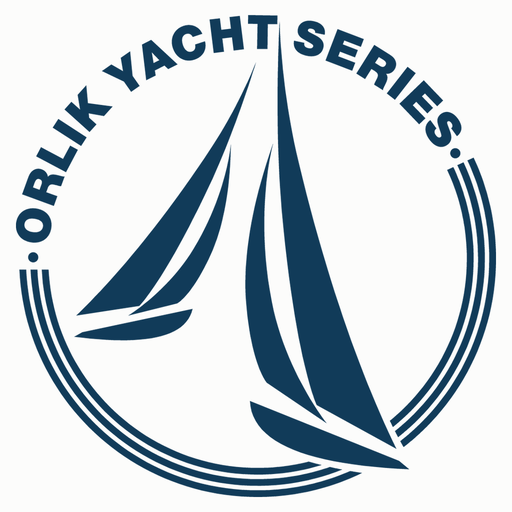
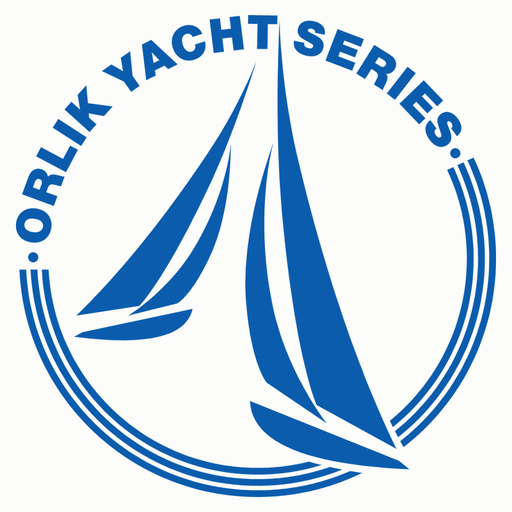
Značka v ikoně a splashi je světlejší, jako ve zbytku appky
Ikona byla jediné místo, kde se značka kreslila tmavě námořní
modří #113b59 — barvou změřenou z EPS rozhodčího. Web i appka ji
kreslí #0b5cad, takže ikona byla tmavší než obrazovka, kterou
otevírá, a v 60 px se tenké linky loga slily do skvrny (Filip,
8. 11. 2026: „logo apky je příliš tmavé, na tmavém prostředí
mobilu je méně vidět").

Archivní vektory v public/logo zůstávají v originální modři; barvu
mění jen to, co se kreslí na obrazovku: ikony, splash a favicon.

Tmavý vzhled šel z #7fa7c9 na #b8d4ea — kontrast proti pozadí
appky stoupl ze 7,1 na 11,7 a modrá zůstala modrá. #7fa7c9 je
barva znaku třídy Nad 7 m; značka si na ni jen půjčovala.

Hýbe to otiskem appky, takže vydané APK přestane dostávat
aktualizace po síti a musí ven nový build.

Changed region(s): [[0.0312, 0.0312, 0.9688, 0.9688]]

diff --git a/app/src/lib/znacka.ts b/app/src/lib/znacka.ts
@@ -12,7 +12,7 @@
  * kruh (Filip, 7. 11. 2026: *„to je nejak neuplne ne?"*).
  *
  * <b>Dvě barvy, stejné jako na webu.</b> `globals.css` má pro značku
- * `--logo-oys: #0b5cad` ve světlém a `#7fa7c9` v tmavém režimu
+ * `--logo-oys: #0b5cad` ve světlém a `#b8d4ea` v tmavém režimu
  * (řádky 327 a 415). Do 7. 11. 2026 tady stála jen ta tmavě modrá
  * s poznámkou, že se značka podle režimu nemění — a na tmavém pozadí
  * appky to byl tmavě modrý kruh na skoro černé, tedy to, kvůli čemu
@@ -22,7 +22,7 @@ export const ZNACKA = {
   viewBox: '0 0 538.58 540.96',
   barva: '#0b5cad',
   /** Tatáž značka na tmavém pozadí; `--logo-oys` v tmavém režimu webu. */
-  barvaTmava: '#7fa7c9',
+  barvaTmava: '#b8d4ea',
   nonzero:
     'M0.25 233.02C-0.16 235.98 -0.06 238.71 0.52 241.22C1.11 243.73 2.14 245.95 3.64 247.88C5.12 249.82 7.01 251.41 9.3 252.66C11.59 253.9 14.23 254.74 17.24 255.17C20.19 255.57 22.92 255.49 25.45 254.91C27.98 254.34 30.24 253.33 32.2 251.89C34.17 250.45 35.8 248.61 37.06 246.4C38.32 244.2 39.17 241.65 39.58 238.78C39.97 235.96 39.85 233.33 39.24 230.91C38.63 228.47 37.57 226.3 36.07 224.4C34.57 222.5 32.68 220.93 30.4 219.69C28.12 218.45 25.52 217.63 22.57 217.21C19.64 216.8 16.9 216.88 14.37 217.44C11.84 217.99 9.58 218.97 7.61 220.37C5.63 221.77 4.02 223.54 2.74 225.67C1.48 227.81 0.65 230.26 0.25 233.02ZM9.6 234.51C9.82 233.02 10.39 231.81 11.33 230.84C12.26 229.88 13.51 229.21 15.05 228.84C16.59 228.47 18.39 228.42 20.44 228.7C23.99 229.2 26.58 230.2 28.23 231.7C29.87 233.19 30.52 235.12 30.2 237.52C29.96 239.1 29.36 240.39 28.38 241.39C27.4 242.39 26.09 243.09 24.46 243.47C22.84 243.84 20.93 243.88 18.75 243.58C16.61 243.28 14.82 242.71 13.38 241.9C11.94 241.09 10.9 240.06 10.25 238.81C9.6 237.55 9.39 236.12 9.6 234.51ZM6.9 201.27L42.44 214.21L46.38 203.39L33.85 198.83L35.52 194.25C35.88 193.26 36.3 192.46 36.8 191.85C37.28 191.23 37.84 190.78 38.46 190.49C38.84 190.33 39.22 190.21 39.59 190.14C39.97 190.07 40.39 190.05 40.85 190.07C41.33 190.1 41.88 190.18 42.52 190.32C43.18 190.46 43.96 190.65 44.89 190.9L47.26 191.52C47.69 191.64 48.01 191.71 48.21 191.77C48.43 191.81 48.58 191.84 48.68 191.86C48.78 191.87 48.88 191.89 48.99 191.91C49.35 191.95 49.63 191.98 49.84 192.01C50.06 192.03 50.28 192.04 50.51 192.04L54.45 181.22L54.05 181.32C53.81 181.38 53.39 181.37 52.78 181.27C52.16 181.17 51.33 180.99 50.28 180.73C48.15 180.12 46.32 179.67 44.79 179.39C43.26 179.11 41.95 179.01 40.86 179.08C39.77 179.16 38.81 179.4 37.99 179.84C37.17 180.27 36.4 180.89 35.69 181.7C35.59 180.44 35.25 179.27 34.67 178.18C34.09 177.09 33.32 176.13 32.35 175.29C31.37 174.46 30.24 173.81 28.95 173.33C27.68 172.87 26.43 172.63 25.18 172.62C23.94 172.61 22.73 172.81 21.58 173.22C20.42 173.64 19.34 174.26 18.36 175.09C17.69 175.64 17.09 176.27 16.55 176.99C16 177.71 15.48 178.57 14.99 179.56C14.49 180.56 14 181.76 13.49 183.15L6.9 201.27ZM19.09 193.46L21.03 188.13C21.65 186.39 22.41 185.22 23.3 184.59C24.19 183.96 25.24 183.86 26.47 184.31C27.69 184.76 28.47 185.47 28.81 186.44C29.15 187.41 29.05 188.66 28.49 190.18L26.34 196.1L19.09 193.46ZM60.76 146.66L52.83 161.58L28.09 148.43L22.69 158.59L56.08 176.35L69.42 151.26L60.76 146.66ZM47.55 116.71L41.28 126.36L73.01 146.97L79.28 137.31L47.55 116.71ZM78.81 78.95L69.25 89.57L71.93 106.25L62.15 97.45L54.45 106.01L82.56 131.31L90.26 122.76L81.96 115.28L81.54 110.41L98.69 113.4L108.36 102.66L80.62 98.97L78.81 78.95ZM127.97 40.83L117.56 48.11L120.09 63.09L107.02 55.5L96.47 62.88L121.21 74.77L129.18 86.15L138.61 79.55L130.77 68.36L127.97 40.83ZM151.62 28L141.41 33.2L146.16 73.23L156.61 67.9L155.79 62.28L166.65 56.74L170.71 60.72L181.22 55.37L151.62 28ZM160.69 50.68L154.38 53.9L152.44 42.09L160.69 50.68ZM201.06 33.12C201.43 35.2 201.31 36.92 200.66 38.27C200.02 39.61 198.89 40.56 197.27 41.09C195.84 41.54 194.49 41.53 193.19 41.06C191.91 40.59 190.74 39.71 189.71 38.42C188.67 37.11 187.82 35.44 187.15 33.4C186.49 31.36 186.2 29.52 186.28 27.86C186.36 26.21 186.78 24.82 187.55 23.69C188.32 22.57 189.42 21.77 190.84 21.29C192.43 20.77 193.86 20.81 195.13 21.38C196.39 21.95 197.45 23.04 198.31 24.65L209.04 21.16C208.24 19.18 207.12 17.46 205.68 16.03C204.23 14.59 202.58 13.45 200.69 12.65C198.81 11.84 196.81 11.38 194.66 11.3C192.52 11.2 190.35 11.51 188.13 12.22C185.46 13.09 183.17 14.35 181.25 16C179.34 17.64 177.84 19.56 176.76 21.77C175.68 23.98 175.06 26.38 174.92 28.96C174.77 31.54 175.13 34.21 176.02 36.96C176.94 39.76 178.21 42.17 179.83 44.21C181.46 46.23 183.34 47.84 185.49 49.01C187.63 50.17 189.95 50.86 192.45 51.07C194.95 51.27 197.53 50.95 200.2 50.09C202.58 49.31 204.64 48.24 206.39 46.9C208.12 45.55 209.52 43.97 210.56 42.18C211.6 40.38 212.25 38.42 212.51 36.28C212.77 34.15 212.61 31.91 212.01 29.56L201.06 33.12ZM251.08 0.93L239.66 2.34L241.25 15.34L230.28 16.69L228.68 3.69L217.25 5.09L221.87 42.63L233.29 41.23L231.47 26.42L242.45 25.08L244.27 39.88L255.69 38.48L251.08 0.93ZM293.32 0.57L260.61 0L260.44 9.81L271.04 9.99L270.55 38L282.06 38.2L282.55 10.2L293.15 10.38L293.32 0.57ZM346.28 22.18C346.79 19.63 346.65 17.34 345.85 15.3C345.06 13.25 343.65 11.52 341.64 10.11C339.62 8.69 337.05 7.65 333.92 6.97C331.66 6.5 329.56 6.35 327.6 6.51C325.64 6.67 323.89 7.13 322.35 7.88C320.8 8.62 319.53 9.63 318.5 10.89C317.49 12.15 316.8 13.64 316.42 15.37C316.11 16.85 316.07 18.25 316.29 19.58C316.51 20.9 317 22.07 317.74 23.07C318.08 23.56 318.47 24.03 318.94 24.48C319.4 24.92 319.97 25.39 320.66 25.88C321.35 26.36 322.2 26.9 323.21 27.5C324.23 28.1 325.46 28.8 326.9 29.6C328.41 30.42 329.63 31.11 330.55 31.65C331.46 32.2 332.15 32.67 332.6 33.05C333.06 33.43 333.34 33.79 333.45 34.11C333.57 34.44 333.58 34.8 333.49 35.17C333.27 36.15 332.7 36.82 331.78 37.2C330.86 37.56 329.68 37.6 328.22 37.3C326.3 36.9 324.95 36.22 324.18 35.24C323.42 34.28 323.16 32.94 323.43 31.24L312.05 28.82C311.52 31.62 311.71 34.15 312.63 36.41C313.56 38.69 315.16 40.61 317.43 42.21C319.7 43.79 322.57 44.96 326.03 45.71C328.51 46.22 330.8 46.41 332.9 46.24C335.02 46.08 336.89 45.6 338.53 44.81C340.17 44.01 341.53 42.91 342.6 41.53C343.68 40.13 344.43 38.48 344.85 36.55C345.23 34.74 345.19 33.04 344.73 31.46C344.27 29.87 343.39 28.41 342.1 27.09C341.59 26.56 341 26.05 340.34 25.55C339.68 25.05 338.88 24.52 337.96 23.98C337.04 23.43 335.93 22.81 334.64 22.14C333.54 21.59 332.65 21.13 331.93 20.77C331.22 20.4 330.65 20.11 330.23 19.88C329.8 19.66 329.47 19.48 329.23 19.35C329 19.21 328.81 19.1 328.66 19C328.52 18.91 328.38 18.8 328.24 18.69C327.94 18.46 327.73 18.18 327.6 17.87C327.47 17.56 327.45 17.22 327.52 16.86C327.69 16.13 328.14 15.65 328.87 15.39C329.61 15.14 330.58 15.13 331.78 15.39C333.21 15.7 334.26 16.26 334.94 17.05C335.63 17.84 335.85 18.8 335.63 19.92L346.28 22.18ZM390.21 27.07L360.93 15.83L347.37 51.15L377.13 62.57L380.56 53.62L361.56 46.32L363.55 41.14L380.33 47.58L383.48 39.37L366.7 32.93L368.38 28.54L386.91 35.65L390.21 27.07ZM401.99 33.65L381.95 65.73L391.71 71.83L398.77 60.53L402.91 63.11C403.8 63.67 404.49 64.25 404.99 64.86C405.49 65.47 405.82 66.1 405.97 66.77C406.05 67.18 406.08 67.57 406.08 67.95C406.06 68.33 406 68.75 405.88 69.2C405.75 69.65 405.56 70.18 405.29 70.78C405.02 71.39 404.67 72.12 404.23 72.97L403.13 75.16C402.93 75.56 402.79 75.86 402.69 76.04C402.6 76.24 402.55 76.39 402.51 76.48C402.47 76.57 402.43 76.67 402.4 76.77C402.28 77.12 402.19 77.39 402.12 77.59C402.06 77.8 402 78.01 401.95 78.23L411.71 84.33L411.7 83.92C411.69 83.68 411.78 83.27 412.01 82.69C412.24 82.11 412.58 81.33 413.06 80.36C414.1 78.4 414.92 76.71 415.51 75.27C416.1 73.83 416.48 72.57 416.63 71.49C416.78 70.4 416.74 69.42 416.49 68.52C416.23 67.63 415.79 66.75 415.15 65.88C416.4 66.05 417.61 65.96 418.8 65.62C419.98 65.28 421.09 64.73 422.11 63.95C423.12 63.17 424 62.19 424.73 61.04C425.45 59.89 425.94 58.72 426.21 57.49C426.48 56.28 426.54 55.06 426.37 53.85C426.21 52.63 425.82 51.44 425.22 50.31C424.81 49.54 424.32 48.82 423.73 48.14C423.14 47.46 422.41 46.77 421.54 46.08C420.67 45.39 419.6 44.66 418.34 43.87L401.99 33.65ZM407.09 47.21L411.9 50.21C413.47 51.18 414.46 52.17 414.9 53.16C415.33 54.17 415.21 55.22 414.51 56.32C413.81 57.43 412.96 58.04 411.94 58.17C410.92 58.3 409.72 57.94 408.34 57.08L403.01 53.75L407.09 47.21ZM448.48 65.33L439.41 58.25L416.12 88.05L425.2 95.14L448.48 65.33ZM479.26 95.92L457.47 73.36L430.26 99.64L452.4 122.56L459.3 115.91L445.15 101.26L449.15 97.4L461.64 110.33L467.96 104.23L455.47 91.3L458.86 88.03L472.65 102.3L479.26 95.92ZM494.74 135.93C496.83 134.38 498.26 132.59 499.03 130.53C499.81 128.48 499.92 126.25 499.37 123.86C498.82 121.45 497.61 118.96 495.73 116.36C494.37 114.5 492.91 112.98 491.35 111.79C489.78 110.6 488.18 109.77 486.53 109.29C484.88 108.81 483.26 108.7 481.66 108.95C480.06 109.22 478.55 109.86 477.11 110.89C475.89 111.78 474.92 112.8 474.2 113.93C473.48 115.06 473.06 116.25 472.94 117.5C472.87 118.09 472.84 118.7 472.89 119.35C472.93 119.98 473.04 120.72 473.23 121.54C473.42 122.36 473.69 123.33 474.04 124.45C474.39 125.58 474.84 126.92 475.38 128.48C475.95 130.1 476.4 131.42 476.72 132.44C477.03 133.47 477.23 134.27 477.3 134.86C477.39 135.45 477.36 135.9 477.23 136.22C477.1 136.53 476.86 136.81 476.54 137.03C475.73 137.61 474.86 137.73 473.92 137.39C472.99 137.05 472.09 136.28 471.21 135.09C470.04 133.5 469.5 132.09 469.58 130.85C469.66 129.63 470.36 128.46 471.7 127.37L464.87 117.97C462.6 119.68 461.04 121.69 460.22 124C459.38 126.31 459.29 128.81 459.91 131.51C460.53 134.2 461.88 136.99 463.96 139.87C465.45 141.91 467.03 143.58 468.71 144.86C470.38 146.16 472.09 147.05 473.85 147.56C475.6 148.07 477.34 148.16 479.07 147.85C480.8 147.54 482.47 146.8 484.07 145.65C485.56 144.57 486.67 143.27 487.39 141.79C488.1 140.3 488.43 138.63 488.35 136.79C488.33 136.05 488.24 135.28 488.07 134.46C487.92 133.65 487.68 132.72 487.36 131.71C487.04 130.67 486.63 129.48 486.12 128.11C485.67 126.97 485.32 126.03 485.03 125.28C484.74 124.53 484.52 123.93 484.35 123.48C484.18 123.03 484.06 122.68 483.97 122.42C483.89 122.16 483.82 121.95 483.78 121.78C483.73 121.62 483.7 121.44 483.67 121.27C483.61 120.89 483.63 120.55 483.74 120.23C483.86 119.91 484.07 119.65 484.37 119.43C484.97 119 485.63 118.94 486.35 119.24C487.07 119.55 487.79 120.19 488.51 121.18C489.37 122.37 489.78 123.49 489.76 124.53C489.73 125.58 489.26 126.44 488.34 127.13L494.74 135.93ZM502.05 165.36C517.43 198.17 526.02 234.8 526.02 273.44C526.02 343.84 497.48 407.59 451.35 453.72C444.22 460.85 436.67 467.56 428.75 473.8C427.54 471.54 426.36 469.27 425.2 466.99C432.49 461.18 439.44 454.98 446.02 448.4C490.79 403.62 518.49 341.76 518.49 273.44C518.49 235.94 510.14 200.39 495.22 168.55L502.05 165.36ZM365.99 510.14C336.65 521.92 304.61 528.4 271.06 528.4C200.65 528.4 136.91 499.86 90.77 453.72C47.34 410.29 19.5 351.25 16.39 285.74L23.94 285.74C27.04 349.17 54.03 406.32 96.1 448.4C140.88 493.17 202.73 520.87 271.06 520.87C299.47 520.87 326.76 516.08 352.17 507.26C356.66 508.27 361.27 509.23 365.99 510.14ZM36.51 285.74C39.6 345.7 65.18 399.72 104.98 439.52C147.48 482.02 206.2 508.31 271.06 508.31C290.88 508.31 310.12 505.85 328.51 501.22C333.12 502.56 337.87 503.84 342.78 505.06C320.11 512.07 296.03 515.84 271.06 515.84C204.12 515.84 143.52 488.71 99.65 444.84C58.49 403.68 32.07 347.78 28.96 285.74L36.51 285.74ZM419.54 455.42C425.67 450.41 431.55 445.11 437.14 439.52C479.64 397.01 505.93 338.3 505.93 273.44C505.93 237.84 498.01 204.1 483.84 173.87L490.66 170.68C505.29 201.88 513.46 236.7 513.46 273.44C513.46 340.38 486.33 400.98 442.46 444.84C436.27 451.04 429.74 456.9 422.9 462.4C421.76 460.08 420.64 457.76 419.54 455.42ZM11.36 285.74C14.48 352.64 42.88 412.93 87.22 457.28C134.27 504.33 199.27 533.43 271.06 533.43C308.02 533.43 343.17 525.71 375.01 511.81C379.33 512.57 383.76 513.3 388.25 513.99C352.86 531.26 313.09 540.96 271.06 540.96C197.19 540.96 130.3 511.02 81.89 462.61C36.18 416.9 6.94 354.72 3.82 285.74L11.36 285.74ZM431.17 478.29C439.5 471.77 447.43 464.75 454.9 457.28C501.95 410.23 531.05 345.23 531.05 273.44C531.05 234.04 522.28 196.69 506.6 163.23L513.43 160.04C529.56 194.47 538.58 232.9 538.58 273.44C538.58 347.31 508.64 414.19 460.23 462.61C452.27 470.57 443.8 478.02 434.9 484.93C433.63 482.72 432.39 480.51 431.17 478.29Z',
   evenodd:

diff --git a/web/app/globals.css b/web/app/globals.css
@@ -423,7 +423,7 @@ body:has(.uvod) .pozadi-znak { display: none; }
   :root:not([data-rezim="svetly"]) .pozadi-znak { opacity: 0.09; }
   :root:not([data-rezim="svetly"]) .logo { --logo-hlavni: #7fa7c9; --logo-druha: #e25a6d; --logo-seda: #c4ced8; --logo-napis: #edeae5; }
   :root:not([data-rezim="svetly"]) .logo-vodoznak-na-plachte { fill: #14171a; fill-opacity: 0.35; }
-  :root:not([data-rezim="svetly"]) .logo-oys { --logo-oys: #7fa7c9; }
+  :root:not([data-rezim="svetly"]) .logo-oys { --logo-oys: #b8d4ea; }
   /* Tmavý vzhled (Filip, 22. 9. 2026, varianta 5c): logo ledové, nápis
      středně šedý, aby logo stálo samo. Vodoznak na pozadí zůstává tlumený. */
   :root:not([data-rezim="svetly"]) header.hlavicka { --barva-znacky: #d6e6f5; --napis-znacky: #7d848c; }
@@ -431,7 +431,7 @@ body:has(.uvod) .pozadi-znak { display: none; }
 :root[data-rezim="tmavy"] .pozadi-znak { opacity: 0.09; }
 :root[data-rezim="tmavy"] .logo { --logo-hlavni: #7fa7c9; --logo-druha: #e25a6d; --logo-seda: #c4ced8; --logo-napis: #edeae5; }
 :root[data-rezim="tmavy"] .logo-vodoznak-na-plachte { fill: #14171a; fill-opacity: 0.35; }
-:root[data-rezim="tmavy"] .logo-oys { --logo-oys: #7fa7c9; }
+:root[data-rezim="tmavy"] .logo-oys { --logo-oys: #b8d4ea; }
 :root[data-rezim="tmavy"] header.hlavicka { --barva-znacky: #d6e6f5; --napis-znacky: #7d848c; }
 header.hlavicka nav { display: flex; gap: 1rem; flex: none; }
 header.hlavicka nav a { color: var(--tlumeny); font-weight: 500; font-size: 0.9rem; }

diff --git a/web/scripts/logo.py b/web/scripts/logo.py
@@ -14,8 +14,13 @@ Corel si v prologu přejmenovává operátory. Používají se tyhle:
 
 Barva je v EPS jen jako CMYK 0,96 0,63 0,20 0,36. Převod na RGB závisí na
 profilu, takže odstín je změřený z PDF téhož loga vykresleného v macOS
-(PDFKit do sRGB kontextu): #113b59. Světlá varianta pro tmavý vzhled
-webu bere modrou, kterou tmavý vzhled používal i pro staré logo.
+(PDFKit do sRGB kontextu): #113b59. **Archivní vektory ho drží, rozhraní
+ne.** V ikoně na ploše telefonu byla ta tmavě námořní modř skoro černá
+skvrna (Filip, 8. 11. 2026: *„logo apky je příliš tmavé, na tmavém
+prostředí mobilu je méně vidět"*) — a byla to zároveň jediná barva
+značky, která se nikde jinde nepoužívala: web i appka značku kreslí
+`#0b5cad`. Ikony, splash a favicon proto berou tutéž modrou jako
+obrazovka pod nimi.
 
 Vyrábí:
 
@@ -37,8 +42,16 @@ WEB = os.path.normpath(os.path.join(os.path.dirname(__file__), ".."))
 ZDROJ = f"{WEB}/grafika/orlik-yacht-series/Logo_Orlik_Yacht_Series_vektor.eps"
 CIL = f"{WEB}/public/logo/orlik-yacht-series"
 
-MODRA = "#113b59"          # změřeno z PDF, viz výše
-SVETLA = "#7fa7c9"         # tmavý vzhled webu, stejná jako u znaků tříd
+MODRA = "#113b59"          # změřeno z PDF, viz výše — archivní vektory
+# Značka v rozhraní. Obě barvy drží i `web/app/globals.css` (`--logo-oys`)
+# a `app/src/lib/znacka.ts` — kdo z nich kreslí značku na obrazovku, kreslí
+# ji touhle modrou, takže ikona vypadá jako appka, kterou otvírá.
+ZNACKA_SVETLE = "#0b5cad"
+# Tmavý vzhled. Do 8. 11. 2026 tu stála #7fa7c9, táž modrá jako znak třídy
+# Nad 7 m; proti pozadí appky má kontrast 7,1 a v ikoně na ploše se tenké
+# linky loga v té modré ztrácely. #b8d4ea dává 11,7 a modrá zůstane modrá —
+# o stupeň výš (#cfe2f3) už je značka skoro bílá.
+ZNACKA_TMAVE = "#b8d4ea"
 PAPIR = (252, 252, 251)    # podložka faviconu, stejná jako u staré ikony
 TMA = (20, 23, 26)         # `pozadi` tmavého vzhledu appky (constants/theme.ts)
 APP = os.path.normpath(os.path.join(os.path.dirname(__file__), "..", "..", "app"))
@@ -218,8 +231,12 @@ def ikony_appky(alfa):
     # a Android by pod ní nechal prosvítat téma. Světlá verze stojí na
     # papíru, tmavá na pozadí tmavého vzhledu appky — tytéž dvě barvy,
     # mezi kterými se přepíná celá appka.
-    uloz_ikonu(ctverec_se_znakem(alfa, 0.86, MODRA, PAPIR), f"{cil}/icon.png")
-    uloz_ikonu(ctverec_se_znakem(alfa, 0.86, SVETLA, TMA), f"{cil}/icon-tmava.png")
+    #
+    # Značka je tu v barvě rozhraní, ne v archivní `MODRA`: ikona na ploše
+    # je 60 px a tenké linky loga v tmavě námořní modři se v ní slily
+    # (Filip, 8. 11. 2026). Totéž platí o splashi, který po ní naskočí.
+    uloz_ikonu(ctverec_se_znakem(alfa, 0.86, ZNACKA_SVETLE, PAPIR), f"{cil}/icon.png")
+    uloz_ikonu(ctverec_se_znakem(alfa, 0.86, ZNACKA_TMAVE, TMA), f"{cil}/icon-tmava.png")
 
     # <b>Tónovaná ikona</b> (iOS 18). Systém si ji obarví sám podle
     # plochy, takže se dodává v šedi na průhledném — jediné, co z ní
@@ -229,18 +246,18 @@ def ikony_appky(alfa):
     # <b>Androidí adaptivní ikona</b> je tři vrstvy. Popředí musí počítat
     # s tím, že si z něj launcher vyřízne kruh nebo čtverec se zaoblením:
     # bezpečná zóna je 72 ze 108 dílů, tedy dvě třetiny strany.
-    uloz_ikonu(ctverec_se_znakem(alfa, 0.64, MODRA), f"{cil}/android-icon-foreground.png")
+    uloz_ikonu(ctverec_se_znakem(alfa, 0.64, ZNACKA_SVETLE), f"{cil}/android-icon-foreground.png")
     uloz_ikonu(Image.new("RGBA", (1024, 1024), PAPIR + (255,)), f"{cil}/android-icon-background.png")
     # Monochromatická vrstva pro motivované ikony: systém si ji obarví,
     # takže nese jen tvar.
     uloz_ikonu(ctverec_se_znakem(alfa, 0.64, "#ffffff"), f"{cil}/android-icon-monochrome.png")
 
     # Splash: značka na průhledném, podložku kreslí expo-splash-screen.
-    uloz_ikonu(ctverec_se_znakem(alfa, 0.92, MODRA), f"{cil}/splash-icon.png")
-    uloz_ikonu(ctverec_se_znakem(alfa, 0.92, SVETLA), f"{cil}/splash-icon-tmava.png")
+    uloz_ikonu(ctverec_se_znakem(alfa, 0.92, ZNACKA_SVETLE), f"{cil}/splash-icon.png")
+    uloz_ikonu(ctverec_se_znakem(alfa, 0.92, ZNACKA_TMAVE), f"{cil}/splash-icon-tmava.png")
 
     # Favicon webové verze appky.
-    uloz_ikonu(ctverec_se_znakem(alfa, 0.92, MODRA, PAPIR, 196), f"{cil}/favicon.png")
+    uloz_ikonu(ctverec_se_znakem(alfa, 0.92, ZNACKA_SVETLE, PAPIR, 196), f"{cil}/favicon.png")
 
 
 def main():
@@ -263,7 +280,7 @@ def main():
         )
 
     os.makedirs(CIL, exist_ok=True)
-    for pripona, barva in (("", MODRA), ("-tmave", SVETLA)):
+    for pripona, barva in (("", MODRA), ("-tmave", ZNACKA_TMAVE)):
         with open(f"{CIL}/orlik-yacht-series{pripona}.svg", "w", encoding="utf-8") as f:
             f.write(
                 f'<svg xmlns="http://www.w3.org/2000/svg" viewBox="{viewbox}">'
@@ -276,17 +293,17 @@ def main():
     for sirka in (1024, 512):
         a = alfa if sirka == 1024 else alfa.resize((sirka, round(sirka * h / w)), Image.LANCZOS)
         uloz_png(obarvi(a, MODRA), f"{CIL}/orlik-yacht-series-{sirka}.png", MODRA)
-        uloz_png(obarvi(a, SVETLA), f"{CIL}/orlik-yacht-series-tmave-{sirka}.png", SVETLA)
+        uloz_png(obarvi(a, ZNACKA_TMAVE), f"{CIL}/orlik-yacht-series-tmave-{sirka}.png", ZNACKA_TMAVE)
     # Výchozí adresa loga: čtverec 512 px, jako měl starý /logo.png.
     ctverec = Image.new("RGBA", (1024, 1024), (0, 0, 0, 0))
-    ctverec.alpha_composite(obarvi(alfa, MODRA), (0, (1024 - alfa.height) // 2))
-    uloz_png(ctverec.resize((512, 512), Image.LANCZOS), f"{WEB}/public/logo.png", MODRA)
+    ctverec.alpha_composite(obarvi(alfa, ZNACKA_SVETLE), (0, (1024 - alfa.height) // 2))
+    uloz_png(ctverec.resize((512, 512), Image.LANCZOS), f"{WEB}/public/logo.png", ZNACKA_SVETLE)
 
     # Favicon na světlé podložce, jinak by tmavě modrý kruh na tmavém panelu
     # prohlížeče zmizel. Logo zabírá skoro celou plochu, v 16 px je každý
     # bod znát.
     ikona = Image.new("RGB", (1024, 1024), PAPIR)
-    znak = obarvi(alfa.resize((960, round(960 * h / w)), Image.LANCZOS), MODRA)
+    znak = obarvi(alfa.resize((960, round(960 * h / w)), Image.LANCZOS), ZNACKA_SVETLE)
     ikona.paste(znak, ((1024 - znak.width) // 2, (1024 - znak.height) // 2), znak)
     uloz_png(ikona.resize((512, 512), Image.LANCZOS), f"{WEB}/app/icon.png")
 
